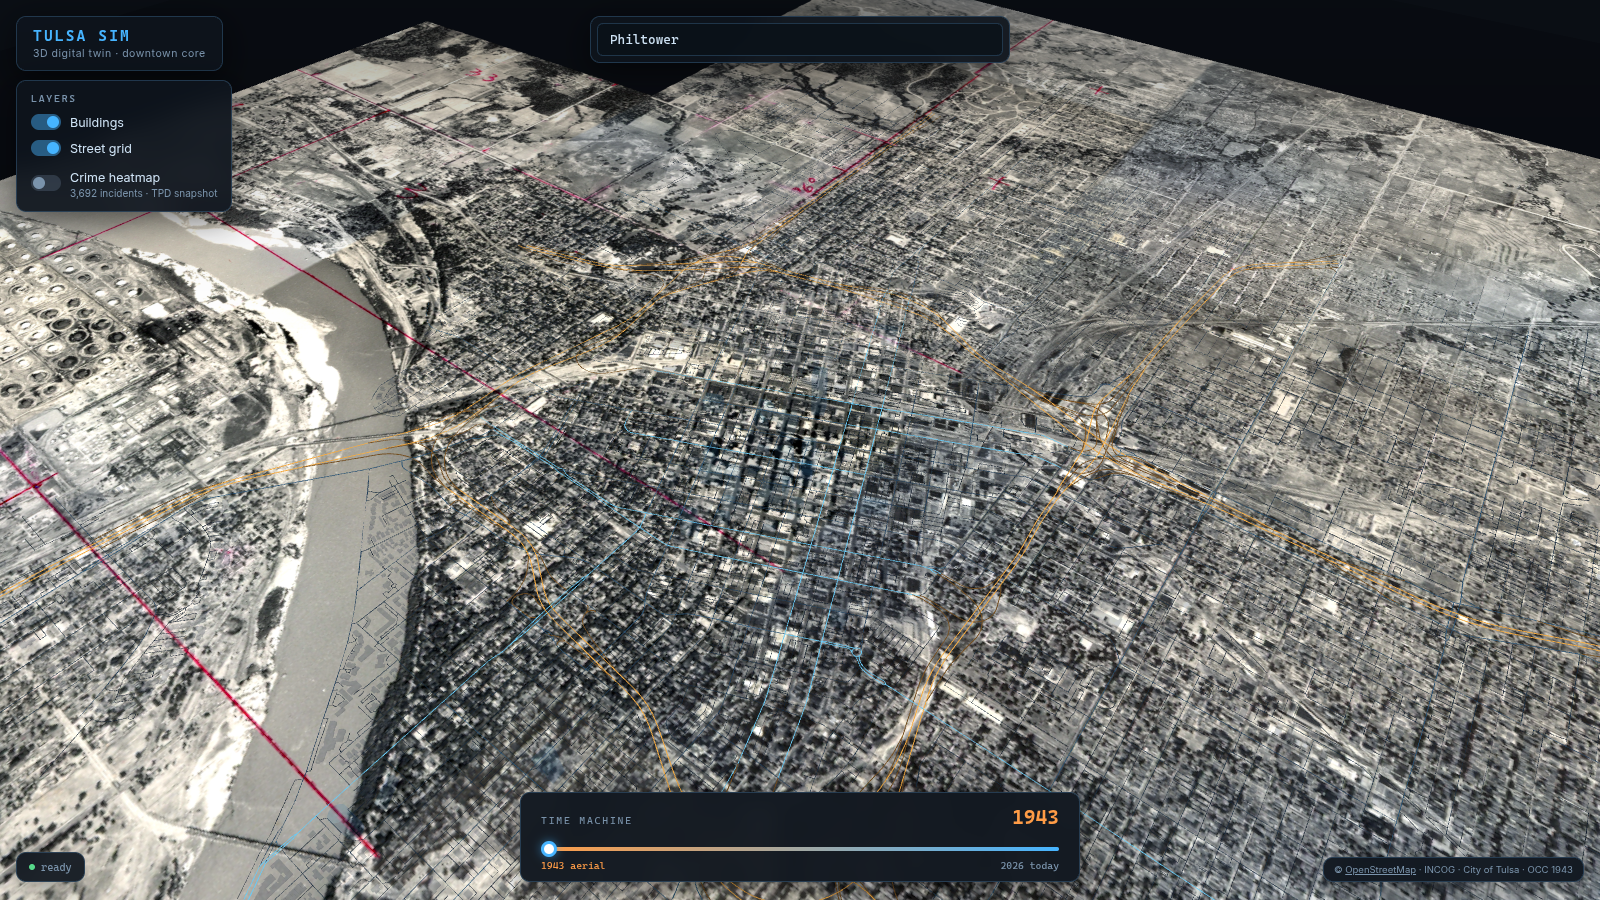
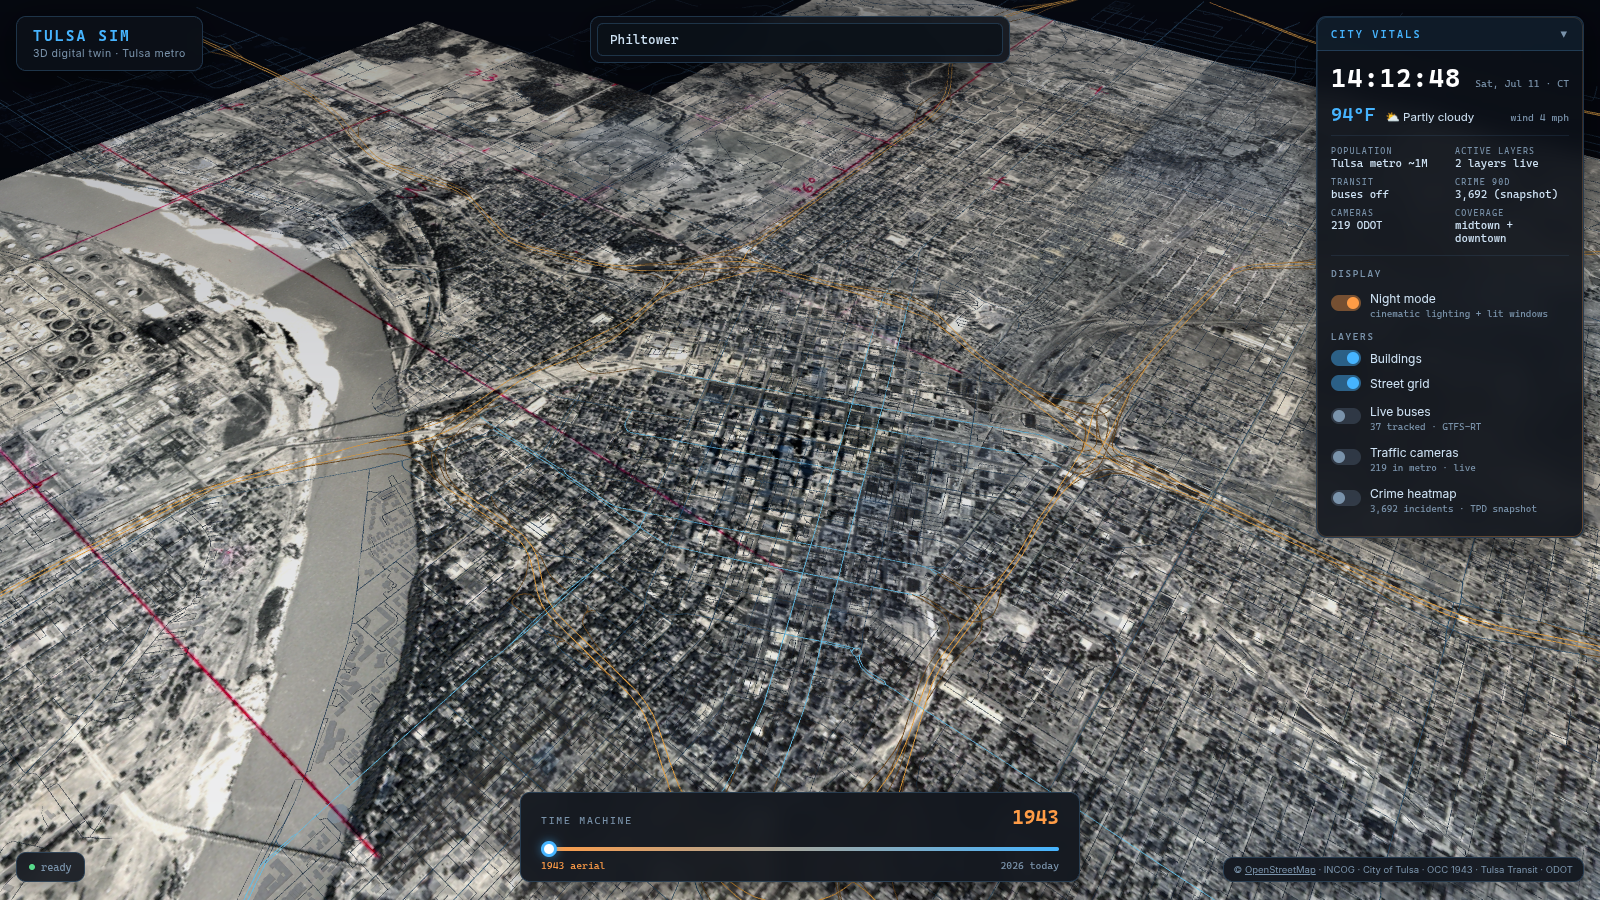
docs: Phase 2 README (vitals, buses, cameras, night mode) + verify.mjs Phase 2 checks + refreshed screenshots

diff --git a/README.md b/README.md
@@ -1,8 +1,8 @@
 # Tulsa Sim — 3D Digital Twin
 
-Interactive 3D digital twin of downtown Tulsa, Oklahoma, inspired by [nycsim.com](https://nycsim.com). Procedural city built from real geospatial data: OSM building extrusions, INCOG assessor parcel intelligence, an aggregated crime heatmap, and a historical time scrubber back to the 1943 aerial survey.
+Interactive 3D digital twin of Tulsa, Oklahoma, inspired by [nycsim.com](https://nycsim.com). Procedural city built from real geospatial data: OSM building extrusions, INCOG assessor parcel intelligence, an aggregated crime heatmap, a historical time scrubber back to the 1943 aerial survey — and, since Phase 2, live Tulsa Transit buses, ODOT traffic cameras, a City Vitals dashboard, and a cinematic night mode.
 
-![Downtown Tulsa 3D view](docs/screenshot-city.png)
+![Night city with City Vitals dashboard](docs/screenshot-city.png)
 
 ![1943 aerial time scrub](docs/screenshot-1943.png)
 
@@ -15,13 +15,24 @@ npm run dev
 
 Open http://localhost:5173. No API keys required — all data sources are public.
 
-## Features (Phase 1)
+## Features
 
-- **3D city base** — ~9,500 extruded OSM building footprints and the OSM street network for the downtown core (bbox `36.135,-96.010,36.175,-95.955`), colored by height with a glowing street grid. Coordinates are normalized to a local origin at 4th & Boston to avoid float32 jitter. Architecture supports expanding to the full metro bbox.
+### Phase 1 (city base)
+
+- **3D city base** — extruded OSM building footprints and the OSM street network, colored by height with a glowing street grid. Coordinates are normalized to a local origin at 4th & Boston to avoid float32 jitter.
 - **Parcel intelligence** — click any building or the ground: a raycast finds the map point, and a live spatial-join query against the INCOG Tulsa County assessor FeatureServer returns owner, address, fair cash value, taxable value, land/improvement split, year built, and last sale. Results are cached in memory; the parcel boundary is highlighted in the scene.
 - **Crime heatmap** — toggleable, warm-colored heat surface aggregated to ~160 m (block-scale) grid cells, with an optional category filter. Individual incidents are never shown at building precision.
 - **Time machine** — scrub the timeline from 2026 back to 1943: modern buildings fade to ghosts and the 1943 black-and-white aerial survey (flown July–August 1943, ~20" resolution) drapes onto the ground via the INCOG ImageServer. The era model supports adding 1967/1921 keyframes later.
-- **Navigation** — orbit/zoom/pan controls, plus a fly-to search with hardcoded downtown landmarks (Cain's Ballroom, Greenwood, BOK Tower, …) and Nominatim geocoding fallback.
+- **Navigation** — orbit/zoom/pan controls, plus a fly-to search with hardcoded landmarks (Cain's Ballroom, Greenwood, BOK Tower, Expo Square, …) and Nominatim geocoding fallback.
+
+### Phase 2 (polish)
+
+- **City Vitals dashboard** — right-side glass panel with a live Tulsa clock (America/Chicago), current weather from Open-Meteo (temperature, conditions, wind — no API key), metro population, active-layer count, transit and crime summaries, and all layer/display toggles.
+- **Live Tulsa Transit buses** — real-time GTFS-Realtime vehicle positions polled every 15 s from the Tulsa Transit feed and decoded with a hand-rolled minimal protobuf reader (`src/data/gtfsrt.ts`, no heavy deps). Buses render as instanced bodies colored by GTFS route color, with heading arrows (feed bearing) and glow beacons. The vitals panel shows fleet count, seconds since last refresh, and a STALE flag past 60 s. If the feed fails, last-known positions are kept and the state is labeled honestly.
+- **Traffic cameras** — ~219 ODOT/OKtraffic cameras in the Tulsa metro bbox, discovered via the `oktraffic.org` LoopBack API (`/api/MapCameras`). Markers are billboard CCTV icons on masts along I-44, I-244, US-75, and the Creek Turnpike; clicking one opens a detail card with a deep link to the live view on OKtraffic.org.
+- **Night mode + cinematic look** — night is the default: moonlit hemisphere lighting, exponential fog, procedurally scattered lit windows (seeded per building, ~18k additive points), roof rim highlights, and a restrained bloom pass. An fps guard disables bloom before ever dropping buildings below 25 fps. Day mode is one toggle away.
+- **Intro fly-through** — 3-second cinematic swoop from high altitude down to downtown on load; any click/key/scroll skips it.
+- **Expanded coverage** — building/street extraction grew from the ~2 km² downtown core to the midtown bbox `36.10,-96.05 → 36.20,-95.88` (~26,500 buildings, ~25,000 street segments) with LOD rules: beyond 2 km from origin, small sheds are dropped and footprints are simplified harder. Re-bake with `node scripts/bake-data.mjs`.
 
 ## Data sources & attribution
 
@@ -31,26 +42,40 @@ Open http://localhost:5173. No API keys required — all data sources are public
 | Parcels / assessor | [INCOG Parcels_TulsaCo FeatureServer](https://map11.incog.org/arcgis11wa/rest/services/Parcels_TulsaCo/FeatureServer/0) (live queries) | INCOG / Tulsa County Assessor |
 | Crime | Live: CFS FeatureServer from spec; fallback: bundled snapshot of the public "Tulsa Crime" ArcGIS layer (TPD RMS extract, 2016–2019) | City of Tulsa / Tulsa Police Department |
 | 1943 aerial | [INCOG Aerial_1943BW ImageServer](https://map11.incog.org/arcgis11wa/rest/services/Aerial_1943BW/ImageServer) (live `exportImage`) | Oklahoma Corporation Commission, via INCOG |
+| Live bus positions | [Tulsa Transit GTFS-Realtime](https://tulsa.rideralerts.com/InfoPoint/GTFS-Realtime.ashx?Type=VehiclePosition) + [GTFS static](https://gtfs.tulsatransit.org/) route metadata baked to `public/data/transit-routes.json` | MetroLink Tulsa (Tulsa Transit) |
+| Traffic cameras | [OKtraffic](https://oktraffic.org) `api/MapCameras`, snapshot baked to `public/data/cameras.json` (live-refreshed through a dev proxy) | Oklahoma DOT / OKtraffic |
+| Weather | [Open-Meteo forecast API](https://open-meteo.com/) (no key) | Open-Meteo.com |
 
 ## Known limitations
 
 - **Crime data**: calls-for-service / RMS extracts are *not* full police reports — they include unfounded calls and exclude some sensitive incident types. The CFS endpoint listed in the project spec currently serves data geocoded outside Tulsa (it is queried live first regardless); when it returns no Tulsa records the app falls back to a bundled 2016–2019 TPD incident snapshot and labels the source in the layer toggle ("TPD snapshot"). Swap in a current Tulsa CFS FeatureServer URL in `src/layers/crime.ts` when one is available.
 - **1943 aerial**: bird's-eye photography, not street level; resolution ~20 inches. The drape covers ~8.4 km × 8.4 km around downtown.
-- **Coverage**: downtown core only for v1 (performance); the projection and loaders accept the full metro bbox (`36.02,-96.15,36.25,-95.75`).
+- **Camera stills**: OKtraffic video streams are negotiated per session behind their backend (`startStream`), and no stable public still-image URL pattern exists, so camera cards deep-link to the official OKtraffic map instead of embedding frames. The camera *list* API also sends no CORS headers — the Vite dev server proxies it (`/oktraffic-api`); static hosting falls back to the baked snapshot.
+- **Bus service hours**: outside Tulsa Transit service hours the GTFS-RT feed legitimately reports few or no vehicles; the vitals panel shows "no vehicles reporting" rather than hiding the layer.
+- **Coverage**: midtown bbox (`36.10,-96.05,36.20,-95.88`) rather than the full metro — the full-metro extract (~73k buildings) is beyond the 30 fps target on SwiftShader/laptop GPUs. The bake script and projection accept the full metro bbox (`36.02,-96.15,36.25,-95.75`) when you want to try.
 - **Heights**: most OSM footprints lack height tags; unknown buildings get a stable pseudo-random 4–10 m height. Towers with `height`/`building:levels` tags are accurate.
 - **Assessor data**: INCOG parcel attributes are provided as-is; railroad/right-of-way parcels often carry no valuation.
 
 ## Verification
 
 ```bash
-npm run dev          # in one terminal
-node scripts/verify.mjs   # headless checklist run + screenshots
+npm run dev               # in one terminal
+node scripts/verify.mjs   # headless Phase 1 + Phase 2 checklist + 8 screenshots
 ```
 
-## Phase 2 hooks (stubs in `src/layers/phase2-stubs.ts`)
+## Data baking
 
-Tulsa Transit GTFS-RT bus positions · ODOT OKtraffic cameras · 1921 Greenwood reconstruction (NYT open GeoJSON) · Sanborn footprints for pre-aerial eras · LLM city concierge.
+```bash
+node scripts/bake-data.mjs            # everything
+node scripts/bake-data.mjs buildings  # Overpass buildings + streets (expanded bbox)
+node scripts/bake-data.mjs transit    # GTFS static routes → transit-routes.json
+node scripts/bake-data.mjs cameras    # OKtraffic snapshot → cameras.json
+```
+
+## Phase 3 hooks (stubs in `src/layers/phase2-stubs.ts`, `src/ui/concierge.ts`)
+
+1921 Greenwood reconstruction (NYT open GeoJSON) · Sanborn footprints for pre-aerial eras · LLM city concierge.
 
 ## License notes
 
-Code: MIT. Bundled OSM extracts remain under [ODbL](https://opendatacommons.org/licenses/odbl/). Assessor, crime, and aerial data remain subject to their providers' terms (INCOG, City of Tulsa, Oklahoma Corporation Commission).
+Code: MIT. Bundled OSM extracts remain under [ODbL](https://opendatacommons.org/licenses/odbl/). Assessor, crime, aerial, transit, and camera data remain subject to their providers' terms (INCOG, City of Tulsa, Oklahoma Corporation Commission, MetroLink Tulsa, ODOT).
